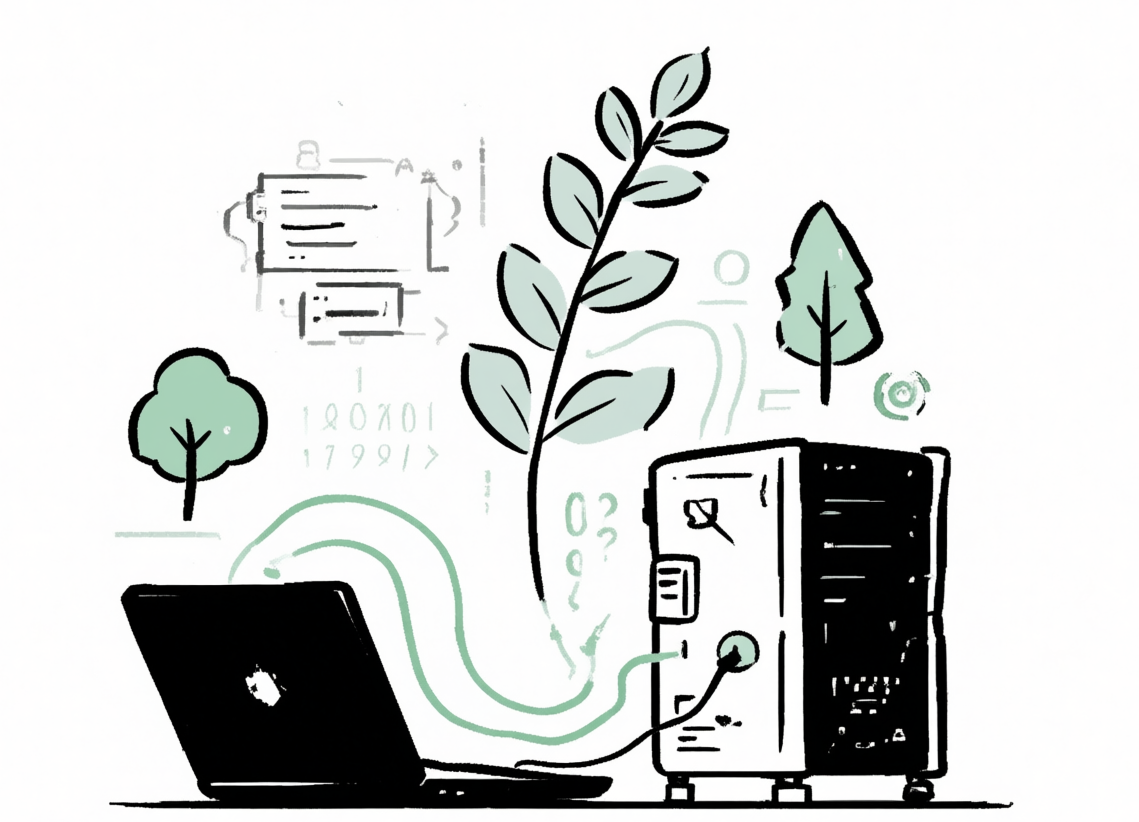
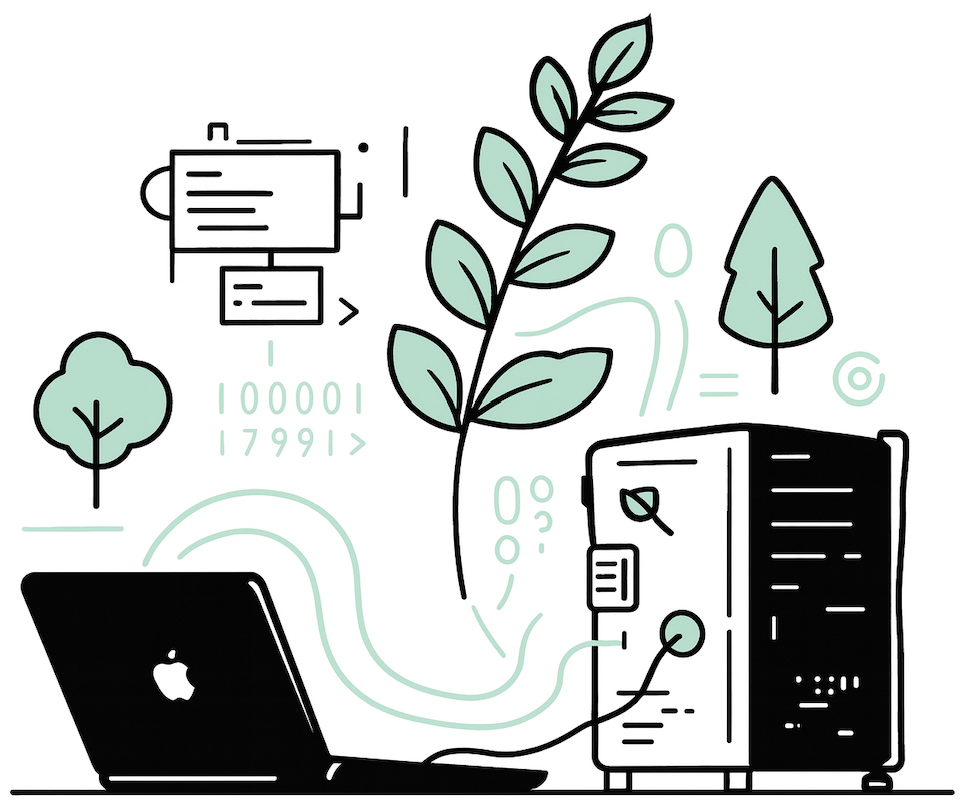
fix call lyout; add new image to landpage

diff --git a/_sass/components/_call.scss b/_sass/components/_call.scss
@@ -1,6 +1,6 @@
 .call {
   position: relative;
-  overflow: hidden;
+  // overflow: hidden;
   background-color: $white-offset;
   border-radius: 4px;
   // box-shadow: 0 15px 35px rgba(50, 50, 93, 0.1), 0 5px 15px rgba(0, 0, 0, 0.07);
@@ -16,7 +16,7 @@
     flex-wrap: wrap;
   }
   .call-box-top {
-    flex: 1 0 auto;
+    flex: 1 1 100%;
     padding: 20px;
     @include media-breakpoint-up(md) {
     }
@@ -56,5 +56,10 @@
       width: 120px;
       height: 120px;
     }
+  }
+  a{
+    white-space: normal;
+    word-break: break-word;
+    overflow-wrap: anywhere;
   }
 }

diff --git a/_layouts/home.html b/_layouts/home.html
@@ -25,7 +25,8 @@ bodyClass: "page-home"
   <div class="container pt-6 pb-6 pb-md-10">
     <div class="row justify-content-start">
       {% assign limit = site.home.limit_services | default: 6 %}
-      {% for service in site.services limit: limit %}
+      {% assign sorted_services = site.services | sort: "weight" %}
+      {% for service in sorted_services limit: limit %}
       <div class="col-12 col-md-4 mb-1">
         <div class="service service-summary">
           <div class="service-content">

diff --git a/_includes/book-a-call.html b/_includes/book-a-call.html
@@ -3,7 +3,4 @@
 
     <div class="call-phone"><strong>👉 <a href="https://calendly.com/greenseal-info/book-a-call" target="_blank">Book Your Free Efficiency Assessment Call </a></strong></div>
   </div>
-      <!-- <div class="call-box-bottom"> -->
-      <!--   <a href="{{ site.data.contact.contact_button_link }}" class="button">Contact</a> -->
-      <!-- </div> -->
 </div>

diff --git a/index.md b/index.md
@@ -3,7 +3,7 @@ title: GreenSeal.dev
 layout: home
 description: Green Seal helps companies reduce the ecological footprint of their software through consulting, training, and certification.
 intro_image: "images/illustrations/main-page.png"
-intro_image_absolute: true
+intro_image_absolute: false
 intro_image_hide_on_mobile: true
 show_call_box: false
 ---
